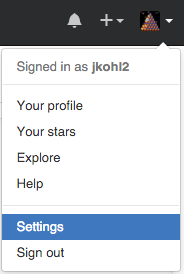
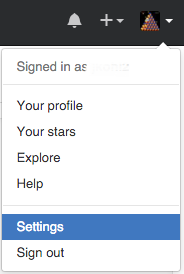
Additional cube removals

Changed region(s): [[0.462, 0.2044, 0.7065, 0.292]]

diff --git a/1_SquirrelU/4_GitHub/5_gitTools/2_GitHubWebsite/3_Notifications/index.md b/1_SquirrelU/4_GitHub/5_gitTools/2_GitHubWebsite/3_Notifications/index.md
@@ -20,7 +20,7 @@ This section is intended to help you manage the volume of this information.
 
 ## Prerequisites
 
-* GAIG GitHub account  
+* GitHub account  
 
 ## A strategy for cutting down the noise  
 By default the option to be notified for changes to any repository that you have access to is selected by default.  
@@ -29,7 +29,7 @@ Unfortunately this results in a lot of notification traffic, including notificat
 Here's a strategy to narrow down the notification traffic that might work for you:  
 
 ### Specify how you want to be notified about GitHub activity   
- 1. Login to github.gaig.com  
+ 1. Login to github 
  
  2. Click on your user Icon and select Settings  
    ![](images/settingsNotification.png){: .image}  
@@ -41,7 +41,7 @@ Here's a strategy to narrow down the notification traffic that might work for yo
          ![](images/turnOffAutomaticWatching.png){: .image}  
  
  5. Toggle email and web notifications to your preferences:  
-     a. **Participating** - for notifying when you are/have been mentioned (ie @jkohl2)  
+     a. **Participating** - for notifying when you are/have been mentioned (ie @zippy)  
      b. **Watching** - for when any repositories of interest change   
  
 ### Narrow down the Repositories
@@ -55,15 +55,12 @@ Here's a strategy to narrow down the notification traffic that might work for yo
      ![](images/unwatchAll.png){: .image}  
      
  4. Now select the Repositories tab, and click on a link to a repository that you are interested in:    
-    ![](images/myRepositories.png){: .image}  
+
    
  5. Click on the "Watch" button and select "Watching". 
     ![](images/watchCubeResources.png){: .image}  
 
- 6. Repeat this for any other base repositories of interest:  
-   a. BUE/CubeU  
-   b. active sub-projects for n-cube or CUBE
-   c. Team mate's forked repositories if you are directly collaborating with them  
+ 6. Repeat this for any other base repositories of interest 
 
 ## Reduced Repository list
 An additional benefit of reducing the list of repositories that you are watching includes  
